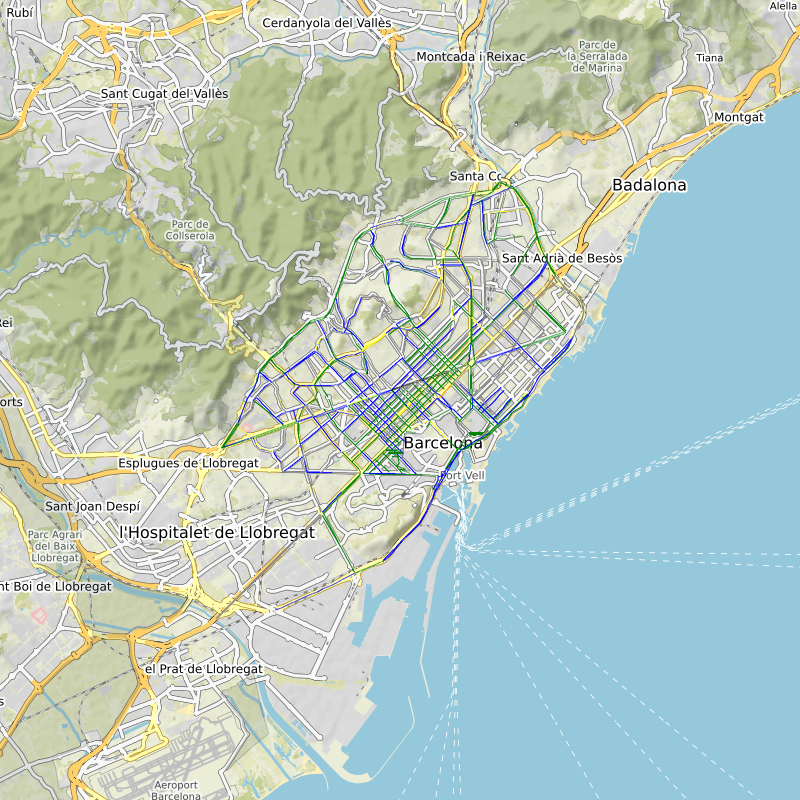
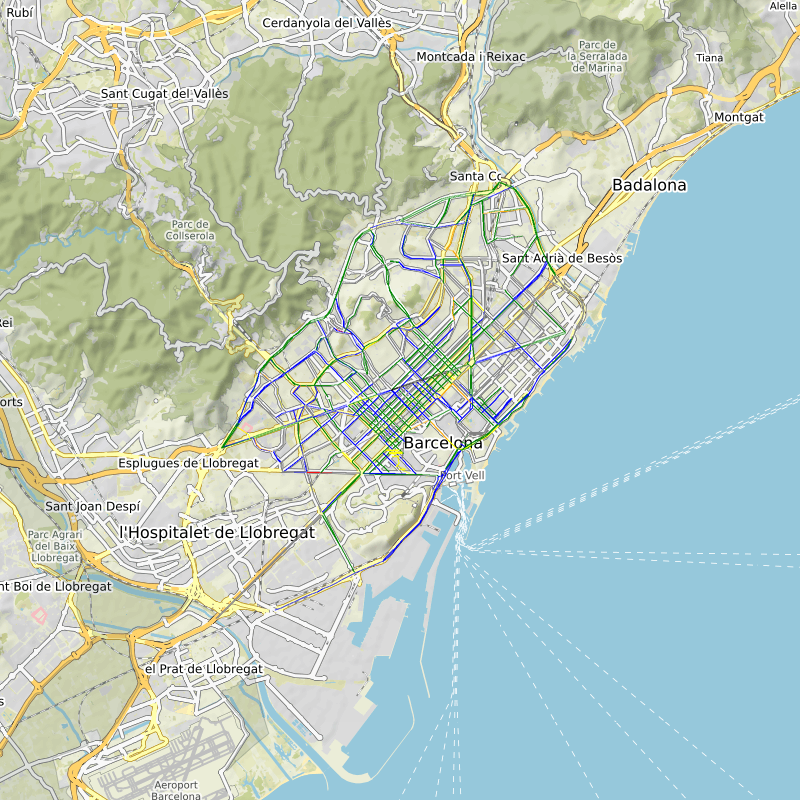
ultimes dues funcions fetes

diff --git a/i-go1.py b/i-go1.py
@@ -193,7 +193,7 @@ def get_nearest_node(graph, pos):
         if d < nearest_dist:
             nearest_dist = d
             nearest_node = node
-    return nearest_node 
+    return nearest_node
 
 def ponderate_congestion (congestion):
     if congestion_type == 0:
@@ -220,7 +220,7 @@ def bo_build_i_graph(graph, highways, congestions, ARBITRARY, INFINIT): #intento
     for highway in highways:
         if (highway.way_id>0):
             for i in range(1, len(highway.coordinates)):
-                #alerta aquí abans teníem 
+                #alerta aquí abans teníem
                 node1= get_nearest_node(graph, highway.coordinates[i-1])
                 node2= get_nearest_node(graph, highway.coordinates[i])
 
@@ -238,8 +238,8 @@ def bo_build_i_graph(graph, highways, congestions, ARBITRARY, INFINIT): #intento
                     #print('nopath')
                     nopath_counter+=1
                     pass
-        print('loading congestions ', highway.way_id, "/", len(highways))
-
+            print('loading congestions ', highway.way_id, "/", len(highways))
+    print (nopath_counter)
     #falta aclarar el tema d'iteració del digraph aquí perquè si ho posem amb la k d'abans dona key error pel bucle anterior
     #però amb el format actual sembla no trobar l'atribut maxspeed
     nx.set_edge_attributes(graph, ARBITRARY, name='itime')
@@ -248,7 +248,7 @@ def bo_build_i_graph(graph, highways, congestions, ARBITRARY, INFINIT): #intento
         try:
             speed = float(graph[node1][node2]['maxspeed'])
             edges_with_speed_data_in+=1
-        except: #some edges don't have maxspeed value in them 
+        except: #some edges don't have maxspeed value in them
             speed= 30
             no_speed_data_counter+=1
         congestion = graph[node1][node2]['congestion']
@@ -257,9 +257,9 @@ def bo_build_i_graph(graph, highways, congestions, ARBITRARY, INFINIT): #intento
             speed= 30
         if (congestion==0): #altanto que les congestions no haurien de poder valer zero si apliquem aquest criteri de divisió
             print('iepiep')
-        graph[node1][node2]['itime'] = length/(speed*congestion)
-    
-    print('edges with no speed value= ', no_speed_data_counter, 'edges with speed value= ', edges_with_speed_data_in)
+        graph[node1][node2]['itime'] = length*congestion/speed
+
+    print('edges with no speed value =', no_speed_data_counter, 'edges with speed value =', edges_with_speed_data_in)
     return graph
 
 
@@ -285,6 +285,23 @@ def checking_highways_congestions (highways, congestions):
             print (i+1)
     print ("pol puto subnormal")
 
+def get_shortest_path_with_ispeeds(igraph, origin, destination):
+    ori = ox.geocode (origin)
+    dest = ox.geocode (destination)
+    return ox.shortest_path(igraph, ori, dest, weight='itime')
+
+def plot_path(igraph, ipath, SIZE):
+    #ploting the data
+    iplot = []
+    for i in range len (ipath):
+        iplot.append ((ipath[i]['x'], ipath[i]['y']))
+    m = StaticMap (SIZE, SIZE) #test values
+    line = Line(iplot, 'red', 1)
+    m.add_line(line)
+    #saving the image
+    image = m.render()
+    image.save("your_path.png")
+
 def test():
     # loads/downloads graph (using cache) and plot it on the screen
     if not exists_graph(GRAPH_FILENAME) or not exists_graph(PLOT_GRAPH_FILENAME):
@@ -308,10 +325,13 @@ def test():
 
     #checking_highways_congestions (highways, congestions)
 
-    
+
     i_graph= bo_build_i_graph(di_graph, highways,congestions, ARBITRARY, INFINIT)
     #print_graph_info(i_graph)
 
+    # get 'intelligent path' between two addresses and plot it into a PNG image
+    ipath = get_shortest_path_with_ispeeds(igraph, "Campus Nord", "Sagrada Família")
+    plot_path(igraph, ipath, SIZE)
+
 #testing
 test()
-
